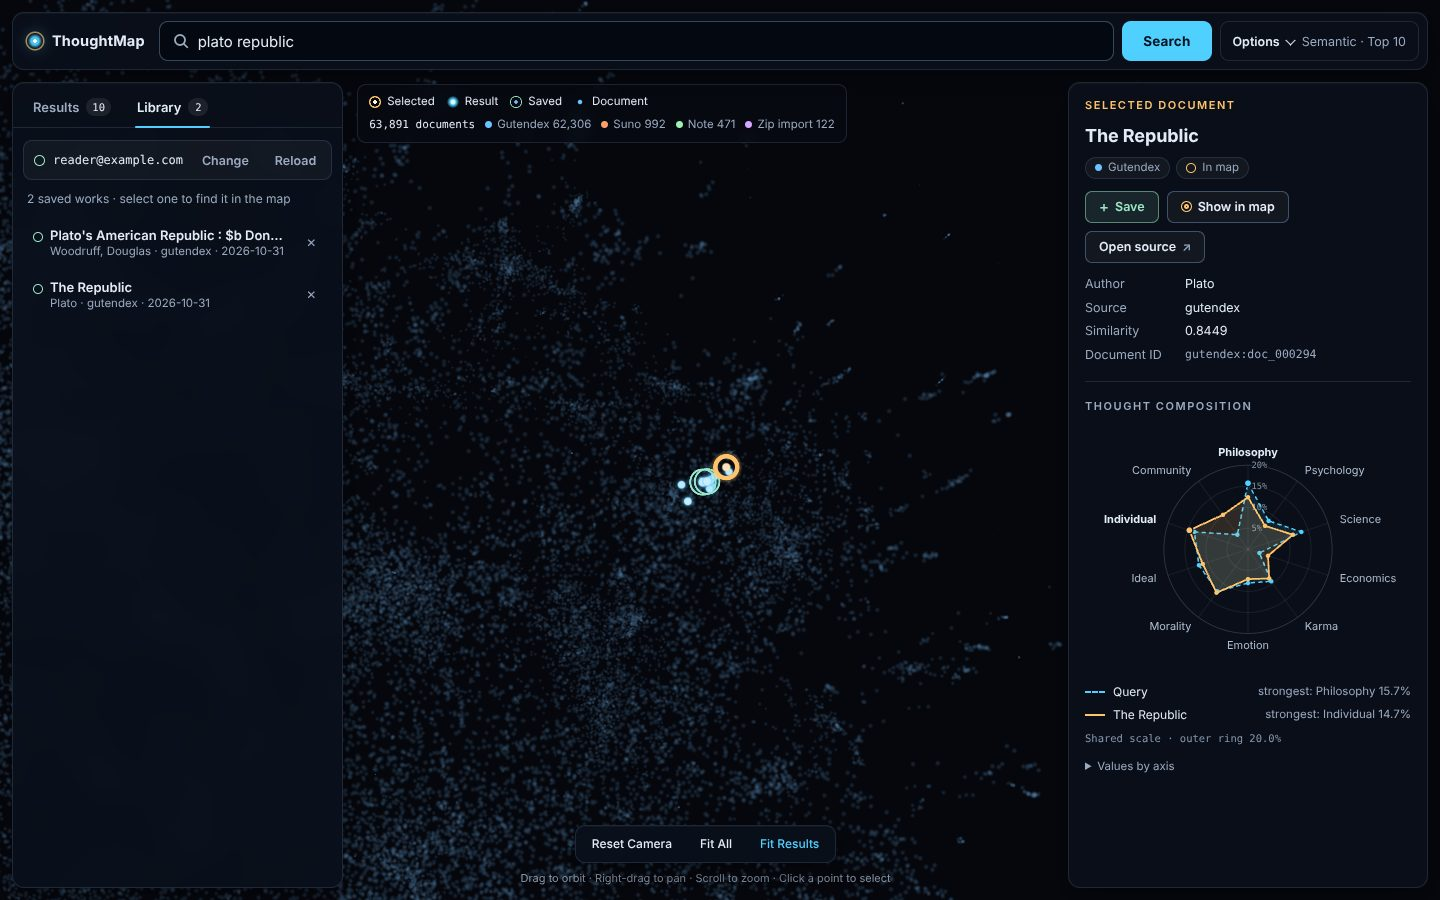
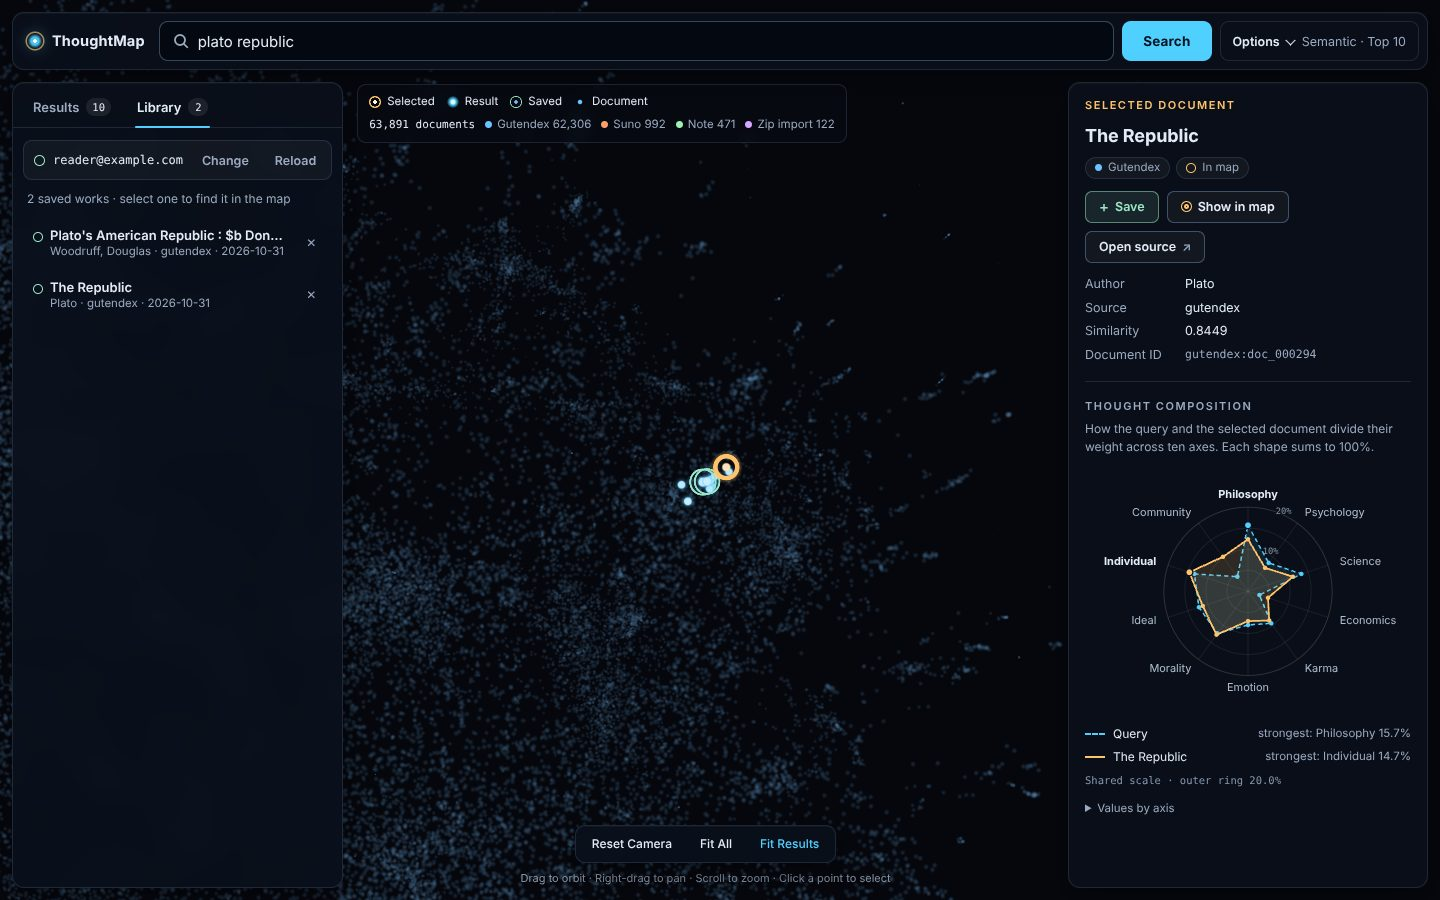
Tune the ThoughtMap UX after a hands-on walkthrough
Fixes for what an end-to-end pass (search -> results -> explore ->
select -> radar -> save -> re-search) in a real browser turned up:

- The hover tooltip stayed where the pointer was after a click while
  the node glided to the centre, describing a point no longer there.
  Hover is now dropped on click and on wheel zoom; the next pointer
  move brings it back.
- A first search from the whole-map view showed its results as one
  small mark (tight clusters collapse at that scale). A successful,
  non-empty search is now framed like Fit Results, but only when no
  document is selected, so it never pulls the view off what is being
  read. Reduced motion keeps it instant.
- Every glide took 0.72 s whether it was a short pan or an 18x zoom.
  Duration now scales with zoom ratio and distance travelled
  (0.52-1.0 s).
- The "not in current results" note claimed the document was
  "selected from the thought space" even when it came from an earlier
  search; it now states what is actually known.
- The radar says in one line what it compares, and labels only its
  half and outer rings, off the axis lines.

Tests: 352 pass (5 new). Before/after captures refreshed.

Claude-Session: https://claude.ai/code/session_0161qjJYJ7bVGJz1q57Q9C5M

Changed region(s): [[0.75, 0.4667, 0.9688, 0.9022], [0.9375, 0.6222, 0.9688, 0.6533]]

diff --git a/10_ThoughtMap/threejs/tests/uxOverhaul.test.ts b/10_ThoughtMap/threejs/tests/uxOverhaul.test.ts
@@ -307,3 +307,99 @@ describe("screen composition", () => {
     screen.dispose();
   });
 });
+
+describe("final tuning", () => {
+  it("gives big zooms more time than short pans, within bounds", async () => {
+    const { transitionDuration } = await import("../src/scene/CameraController");
+    const pan = transitionDuration(12, 12, 2);
+    const wholeMapToDocument = transitionDuration(220, 12, 40);
+    expect(pan).toBeGreaterThanOrEqual(520);
+    expect(pan).toBeLessThan(600);
+    expect(wholeMapToDocument).toBeGreaterThan(pan);
+    expect(wholeMapToDocument).toBeLessThanOrEqual(1000);
+    expect(transitionDuration(12, 220, 40)).toBeCloseTo(wholeMapToDocument, 6);
+    expect(Number.isFinite(transitionDuration(0, Number.NaN, -1))).toBe(true);
+  });
+
+  async function interactionFixture() {
+    const { ThoughtMapInteractionController } = await import(
+      "../src/app/ThoughtMapInteractionController"
+    );
+    const { SelectionController } = await import("../src/app/SelectionController");
+    const canvas = document.createElement("canvas");
+    const nodes = new NodeRenderer();
+    nodes.setNodes([node("a", 0, 0, 0), node("b", 10, 10, 10), node("c", -10, 5, 0)]);
+    const camera = new CameraController(canvas, 16 / 9);
+    const scene = { renderer: { domElement: canvas }, nodes, camera, requestRender: vi.fn() };
+    const state = new AppState();
+    state.mapLoaded([node("a", 0, 0, 0), node("b", 10, 10, 10), node("c", -10, 5, 0)], {} as never);
+    const onHover = vi.fn();
+    const interaction = new ThoughtMapInteractionController(
+      scene as never,
+      state,
+      new SelectionController(state),
+      { onHover },
+    );
+    state.subscribe((snapshot) => interaction.syncFromState(snapshot));
+    return { state, camera, canvas, onHover, interaction };
+  }
+
+  it("frames a fresh search's results when nothing is selected", async () => {
+    const { state, camera, interaction } = await interactionFixture();
+    state.searchSucceeded(state.startSearch(), {
+      query: "q",
+      results: [result("a"), result("b")],
+      queryParameters: null,
+    });
+    expect(camera.isTransitioning).toBe(true);
+    interaction.dispose();
+    camera.dispose();
+  });
+
+  it("leaves the camera on the selected document when a search lands", async () => {
+    const { state, camera, interaction } = await interactionFixture();
+    state.select("c");
+    camera.update(performance.now() + 10_000);
+    state.searchSucceeded(state.startSearch(), {
+      query: "q",
+      results: [result("a"), result("b")],
+      queryParameters: null,
+    });
+    expect(camera.isTransitioning).toBe(false);
+    interaction.dispose();
+    camera.dispose();
+  });
+
+  it("drops the tooltip on a click and on wheel zoom, so it never trails a moved node", async () => {
+    const { state, canvas, onHover, interaction, camera } = await interactionFixture();
+
+    state.setHovered("a");
+    canvas.dispatchEvent(new PointerEvent("pointerdown", { clientX: 5, clientY: 5, pointerId: 1 }));
+    canvas.dispatchEvent(new PointerEvent("pointerup", { clientX: 5, clientY: 5, pointerId: 1 }));
+    expect(state.getState().hoveredDocId).toBeNull();
+    expect(onHover).toHaveBeenLastCalledWith(null);
+
+    state.setHovered("b");
+    canvas.dispatchEvent(new WheelEvent("wheel", { deltaY: 100 }));
+    expect(state.getState().hoveredDocId).toBeNull();
+    interaction.dispose();
+    camera.dispose();
+  });
+
+  it("explains the radar and labels only the half and outer rings", () => {
+    const panel = new DetailPanel();
+    const state = new AppState();
+    state.searchSucceeded(state.startSearch(), {
+      query: "q",
+      results: [result("a")],
+      queryParameters: [{ key: "philosophy", value: 0.16 }],
+    });
+    panel.render(state.getState(), null);
+
+    expect(panel.element.querySelector(".tm-radar-caption")?.textContent).toContain("ten axes");
+    const rings = Array.from(panel.element.querySelectorAll(".tm-radar-ring-label")).map(
+      (label) => label.textContent,
+    );
+    expect(rings).toEqual(["10%", "20%"]);
+  });
+});

diff --git a/10_ThoughtMap/threejs/src/app/ThoughtMapInteractionController.ts b/10_ThoughtMap/threejs/src/app/ThoughtMapInteractionController.ts
@@ -58,6 +58,8 @@ export class ThoughtMapInteractionController {
   private lastVisualKey = "";
   private lastNodesRef: unknown = null;
   private lastSavedRef: unknown = null;
+  /** The result list last seen, to recognise a fresh search. */
+  private lastResultsRef: unknown = null;
   private disposed = false;
 
   constructor(
@@ -72,6 +74,9 @@ export class ThoughtMapInteractionController {
     canvas.addEventListener("pointerup", this.handlePointerUp);
     canvas.addEventListener("pointercancel", this.handlePointerCancel);
     canvas.addEventListener("pointerleave", this.handlePointerLeave);
+    // Zooming moves the points out from under a still pointer; a tooltip left
+    // behind would describe a node that is no longer there.
+    canvas.addEventListener("wheel", this.handleWheel, { passive: true });
   }
 
   private get canvas(): HTMLCanvasElement {
@@ -91,6 +96,8 @@ export class ThoughtMapInteractionController {
     if (nodeCount === 0) {
       return;
     }
+
+    this.frameFreshResults(snapshot);
 
     // Cheap identity of everything the visual state depends on.
     const key = [
@@ -138,6 +145,32 @@ export class ThoughtMapInteractionController {
 
     this.scene.nodes.applyVisualState(visual);
     this.scene.requestRender();
+  }
+
+  /**
+   * Show where a new search landed — when the reader is not looking at
+   * anything in particular.
+   *
+   * From the whole-map view a result set that sits close together collapses
+   * into a single small mark, and the list's "10 results" has no visible
+   * counterpart in the space. So a fresh, non-empty result set is framed,
+   * exactly as Fit Results would frame it. With a document selected the
+   * camera stays put: selection survives a search, and pulling the view away
+   * from what someone is reading would be the surprise. Reduced motion makes
+   * the move instant, like every other camera move.
+   */
+  private frameFreshResults(snapshot: AppStateSnapshot): void {
+    if (snapshot.results === this.lastResultsRef) {
+      return;
+    }
+    this.lastResultsRef = snapshot.results;
+    if (
+      snapshot.status === "success" &&
+      snapshot.results.length > 0 &&
+      snapshot.selectedDocId === null
+    ) {
+      this.fitResults(snapshot);
+    }
   }
 
   /** Search ↔ map join diagnostics for the current results. */
@@ -227,6 +260,7 @@ export class ThoughtMapInteractionController {
     canvas.removeEventListener("pointerup", this.handlePointerUp);
     canvas.removeEventListener("pointercancel", this.handlePointerCancel);
     canvas.removeEventListener("pointerleave", this.handlePointerLeave);
+    canvas.removeEventListener("wheel", this.handleWheel);
 
     if (this.hoverFrame !== 0) {
       cancelAnimationFrame(this.hoverFrame);
@@ -277,6 +311,11 @@ export class ThoughtMapInteractionController {
     const point = this.toCanvasPoint(event.clientX, event.clientY);
     const index = this.pick(point.x, point.y, pickRadiusForPointer(event.pointerType));
 
+    // A click either selects (and the camera glides the node to the centre)
+    // or clears. Either way the point under a still pointer is about to move,
+    // so the tooltip goes now and returns with the next pointer move.
+    this.clearHover();
+
     if (index === -1) {
       // Empty space clears the selection, which is how you get back to the
       // whole map without hunting for a control.
@@ -289,6 +328,14 @@ export class ThoughtMapInteractionController {
       // Exactly the path a result-list click takes.
       this.selection.select(docId);
     }
+  };
+
+  private readonly handleWheel = (): void => {
+    if (this.hoverFrame !== 0) {
+      cancelAnimationFrame(this.hoverFrame);
+      this.hoverFrame = 0;
+    }
+    this.clearHover();
   };
 
   private readonly handlePointerCancel = (): void => {

diff --git a/10_ThoughtMap/threejs/src/ui/ParameterRadar.ts b/10_ThoughtMap/threejs/src/ui/ParameterRadar.ts
@@ -49,7 +49,10 @@ export class ParameterRadar {
   private readonly note: HTMLElement;
   private readonly axes: RadarAxis[];
 
-  constructor(private readonly title: string) {
+  constructor(
+    private readonly title: string,
+    description = "",
+  ) {
     this.axes = computeAxes(RADIUS, LABEL_OFFSET, PARAMETER_AXIS_ORDER, axisLabel);
 
     this.element = document.createElement("section");
@@ -58,6 +61,13 @@ export class ParameterRadar {
     const heading = document.createElement("h3");
     heading.className = "tm-radar-title";
     heading.textContent = title;
+
+    // What the chart is for, in one line, so the comparison does not depend
+    // on already knowing what a Thought Composition is.
+    const caption = document.createElement("p");
+    caption.className = "tm-radar-caption";
+    caption.textContent = description;
+    caption.hidden = description === "";
 
     this.svg = document.createElementNS("http://www.w3.org/2000/svg", "svg");
     // A viewBox with no fixed pixel size lets CSS scale the chart to any
@@ -91,7 +101,7 @@ export class ParameterRadar {
     summary.textContent = "Values by axis";
     details.append(summary, this.table);
 
-    this.element.append(heading, this.svg, this.legend, this.note, details);
+    this.element.append(heading, caption, this.svg, this.legend, this.note, details);
   }
 
   /**
@@ -163,20 +173,27 @@ export class ParameterRadar {
   }
 
   /**
-   * The scale, written on the chart: each ring's share along the top spoke.
-   * The reader no longer has to work out what the outer ring means.
+   * The scale, written on the chart: the half and outer rings, labelled in
+   * the gap between the first two spokes so they never sit on an axis line.
+   * Two labels are enough to read the scale; four were clutter.
    */
   private buildRingLabels(domain: number): SVGElement[] {
     const rings = computeRings(domain);
-    return rings.map((value, index) => {
-      const text = svgEl("text");
-      text.setAttribute("class", "tm-radar-ring-label");
-      text.setAttribute("x", "4");
-      text.setAttribute("y", String(-(RADIUS * (index + 1)) / rings.length + 3));
-      text.setAttribute("aria-hidden", "true");
-      text.textContent = formatRingValue(value);
-      return text;
-    });
+    const angle = -Math.PI / 2 + Math.PI / PARAMETER_AXIS_ORDER.length;
+    const direction = { x: Math.cos(angle), y: Math.sin(angle) };
+    return rings
+      .map((value, index) => ({ value, radius: (RADIUS * (index + 1)) / rings.length, index }))
+      .filter(({ index }) => index === rings.length / 2 - 1 || index === rings.length - 1)
+      .map(({ value, radius }) => {
+        const text = svgEl("text");
+        text.setAttribute("class", "tm-radar-ring-label");
+        text.setAttribute("x", String(Math.round(direction.x * radius * 100) / 100 + 2));
+        text.setAttribute("y", String(Math.round(direction.y * radius * 100) / 100));
+        text.setAttribute("dominant-baseline", "middle");
+        text.setAttribute("aria-hidden", "true");
+        text.textContent = formatRingValue(value);
+        return text;
+      });
   }
 
   private buildRings(domain: number): SVGElement[] {

diff --git a/10_ThoughtMap/threejs/src/scene/CameraController.ts b/10_ThoughtMap/threejs/src/scene/CameraController.ts
@@ -19,8 +19,33 @@ import {
 
 const DEFAULT_FOV = 50;
 
-/** Length of a programmatic move. Long enough to follow, short enough not to wait on. */
-const TRANSITION_MS = 720;
+/**
+ * Length of a programmatic move, by how much it changes.
+ *
+ * One fixed length made a short pan feel slow and an 18x zoom from the whole
+ * map feel like a lurch. Time now grows with the zoom ratio (per doubling)
+ * and with the distance travelled relative to the view, within bounds: long
+ * enough to follow, short enough not to wait on.
+ */
+const TRANSITION_MIN_MS = 520;
+const TRANSITION_MAX_MS = 1000;
+const TRANSITION_MS_PER_ZOOM_DOUBLING = 110;
+const TRANSITION_MS_PER_VIEW_TRAVELLED = 120;
+
+export function transitionDuration(
+  fromDistance: number,
+  toDistance: number,
+  travel: number,
+): number {
+  const safe = (value: number) => (Number.isFinite(value) && value > 1e-6 ? value : 1e-6);
+  const zoomDoublings = Math.abs(Math.log2(safe(toDistance) / safe(fromDistance)));
+  const viewsTravelled = Math.min(3, Math.max(0, travel) / Math.max(safe(fromDistance), safe(toDistance)));
+  const duration =
+    TRANSITION_MIN_MS +
+    TRANSITION_MS_PER_ZOOM_DOUBLING * zoomDoublings +
+    TRANSITION_MS_PER_VIEW_TRAVELLED * viewsTravelled;
+  return Math.min(TRANSITION_MAX_MS, Math.max(TRANSITION_MIN_MS, duration));
+}
 
 /** Options shared by every programmatic camera move. */
 export interface MoveOptions {
@@ -449,7 +474,7 @@ export class CameraController {
 
     this.transition = {
       started: performance.now(),
-      duration: TRANSITION_MS,
+      duration: transitionDuration(fromDistance, toDistance, travel),
       fromTarget: this.controls.target.clone(),
       toTarget: target.clone(),
       fromDirection,

diff --git a/10_ThoughtMap/threejs/src/ui/DetailPanel.ts b/10_ThoughtMap/threejs/src/ui/DetailPanel.ts
@@ -119,7 +119,10 @@ export class DetailPanel {
 
     // One radar showing both profiles on a shared scale, so the reader can see
     // where the document agrees with and diverges from the search intent.
-    this.radar = new ParameterRadar("Thought Composition");
+    this.radar = new ParameterRadar(
+      "Thought Composition",
+      "How the query and the selected document divide their weight across ten axes. Each shape sums to 100%.",
+    );
 
     this.saveButton = document.createElement("button");
     this.saveButton.type = "button";
@@ -165,7 +168,7 @@ export class DetailPanel {
     this.originNote = document.createElement("p");
     this.originNote.className = "tm-note tm-detail-origin";
     this.originNote.textContent =
-      "Selected from the thought space. Search this document to see its similarity and profile.";
+      "Not in the current results, so there is no similarity or Thought Composition to show. Search for it to compare it with a query.";
     this.originNote.hidden = true;
 
     this.body = document.createElement("div");

diff --git a/10_ThoughtMap/threejs/src/styles/main.css b/10_ThoughtMap/threejs/src/styles/main.css
@@ -1331,6 +1331,13 @@ summary:focus-visible,
   color: var(--tm-text-dim);
 }
 
+.tm-radar-caption {
+  margin: -2px 0 0;
+  font-size: 12px;
+  line-height: 1.5;
+  color: var(--tm-text-dim);
+}
+
 /* viewBox scales to the column; no fixed pixel size, so it never overflows. */
 .tm-radar-svg {
   display: block;

diff --git a/10_ThoughtMap/threejs/README.md b/10_ThoughtMap/threejs/README.md
@@ -43,8 +43,14 @@ understand is direct. Before/after captures are in
 - **The camera centres on the visible map window**, not the canvas behind the
   panels (`PerspectiveCamera.setViewOffset`, pixel scale unchanged), so a
   focused document lands where the reader is looking at every width. Focus,
-  Fit Results, Fit All and Reset glide (eased, pulling back on long hops);
-  reduced motion keeps them instant. Wheel zoom goes toward the cursor.
+  Fit Results, Fit All and Reset glide (eased, pulling back on long hops,
+  0.52–1.0 s scaled by zoom ratio and distance travelled); reduced motion
+  keeps them instant and any pointer or wheel input cancels them. Wheel zoom
+  goes toward the cursor. The hover tooltip is dropped on click and on zoom,
+  so it never trails a node that has moved.
+- **Search lands in the map**: a successful, non-empty search is framed like
+  Fit Results — but only when no document is selected, so a search never pulls
+  the view away from something being read.
 - **Search**: one row — query, Search, and an Options button that states the
   mode/source/filter/count in effect; the four options keep their values and
   gain one-line explanations of what the backend does with them.
@@ -76,7 +82,7 @@ rather than silently serving the 4,584-document legacy snapshot.
 
 ### Build output
 
-The entry chunk is 20.2 kB gzipped (CSS 6.9 kB). Three.js (118.2 kB gzipped) is a separate
+The entry chunk is 20.3 kB gzipped (CSS 6.9 kB). Three.js (118.2 kB gzipped) is a separate
 vendor chunk loaded *after* the search UI is interactive, and the 3.7 MB map
 starts downloading later still — so search is usable long before the thought
 space appears. Nothing here waits for the map.

diff --git a/10_ThoughtMap/docs/screenshots/threejs-ux-overhaul/README.md b/10_ThoughtMap/docs/screenshots/threejs-ux-overhaul/README.md
@@ -5,7 +5,8 @@ against the real 63,891-node `map_projection_3d.json`, with the same scripted
 sequence for both sides:
 
 1. `initial` — map loaded, nothing searched
-2. `results` — searched "plato republic"
+2. `results` — searched "plato republic" (after: with nothing selected, the
+   map frames the results)
 3. `selected` — Library ID set, results #2 and #4 saved, result #1 selected
 4. `hover` — pointer over result #3's node
 5. `fit-results` — Fit Results pressed
